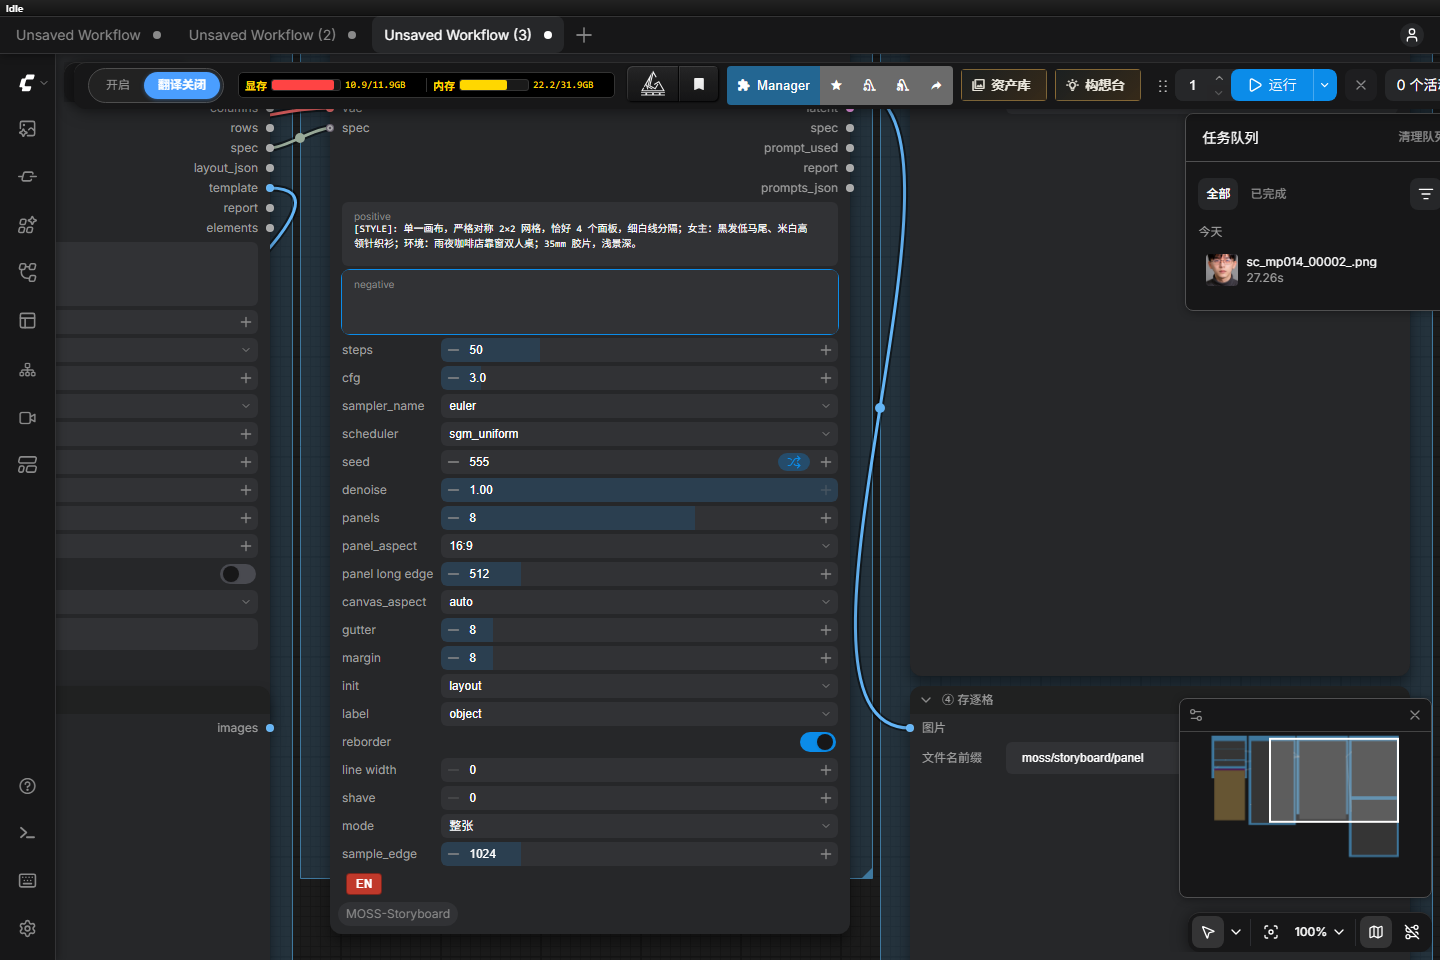
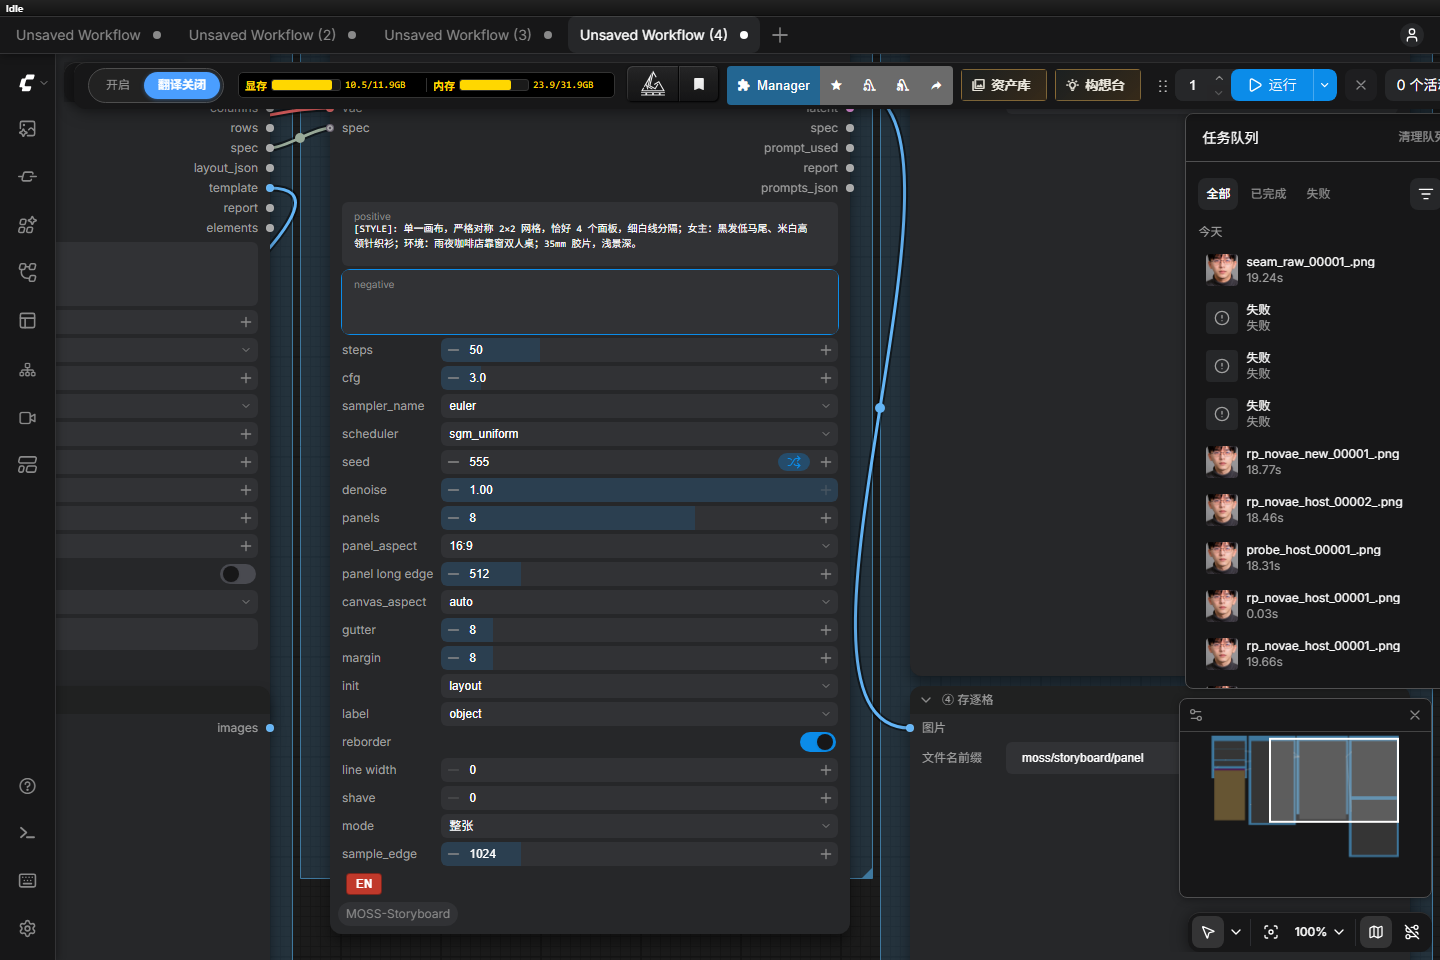
fix(i18n): 语言条不再写进存档，旧稿不会每存一次就差一格
现象：打开工作流后「单个比例 / 画布比例 / 布局框边长 / 锁定方式 / mode」五个下拉变红底，
刷新也不消失。

根因（前端 1.57.4 真机实测，Chromium + 宿主 8188，Nodes 2.0 开启）：
- 语言条用 `addDOMWidget(..., {serialize:false})` 挂，但这版 litegraph 的 `serialize()`
  **不认**这个标记，照样把它写进 `widgets_values`（基线 22 → 加 button 23 →
  再加 DOM 组件 24，一个都没跳过）。
- 而语言条是 `configure` **之后**才挂上的 ⇒ 存档 23 项 / 载入时 22 个 widget。
- 宿主按位置赋值，于是每保存一次就整体错一位：`panels` 拿到 `"16:9"`、
  `panel_aspect` 拿到 `512`、`init` 拿到 `"object"`。ComfyUI 自己不报错。

修法：在节点的 `serialize` 上剔除语言条那一格（只在「存档长度 == widget 总数」时动手，
那时才是一一对应）。此后 打开 → 保存 → 再打开 → 刷新 四步零红框，兼容层一次都不触发。

试过但撤掉的：把语言条提前到 `configure` 之前挂，让 widget 数与存档天然相等。
实测在 Nodes 2.0 下会让赋值链路整体偏一格（`widget[9]` 拿到 `values[10]`），比原问题更糟。

另：兼容层判据改为按内容对齐（长度相等但内容左移也认），并允许候选短于 widget 数；
原有边界照旧（只坏一个值 / 差超过 3 格 / 怎么对齐都合法不了，一律不猜）。

验证（真机，全部实跑）：
- `examples/` 四份示例：零红框，兼容层零触发；
- 人为错位稿（中间删 3 格 + 尾部补 3 个空串）：加载后归位，刷新后不再搬动；
- 保存再打开：存档 22 项（= 23 widget − 语言条），无红框、不必修；
- 宿主目录里那份错位的 `moss-layout-editor-storyboard.json` 已按界面真实值修好，
  原文件备份为 `.bak-shifted-20261028`。

闸：test_compat 33/0、check_editor_ui 148/0（新增 W28）、check_release_ready 42/0、
test_i18n 54/0、ui_widget_compat 14/0（新增「存出去再打开」）、ui_smoke 31/0。

diff --git a/web/moss_sb_i18n_ui.js b/web/moss_sb_i18n_ui.js
@@ -26,6 +26,7 @@ import {
 const TAG = "[MOSS SB] i18n";
 const BTN_CLASS = "mosssb-i18n-btn";
 const STYLE_ID = "mosssb-i18n-btn-style";
+const BAR_NAME = "mosssb_i18n_bar";
 
 let _lang = null;
 let booted = false;
@@ -140,6 +141,36 @@ function makeBtn() {
     return btn;
 }
 
+/**
+ * 把语言条那一格从存档里去掉。
+ *
+ * 为什么必须自己剔：`addDOMWidget(..., { serialize: false })` 只是**告诉宿主**别存，
+ * 实测（前端 1.57.4）这版 litegraph 的 `serialize()` 照样把它写进 `widgets_values`。
+ * 而载入时它是 `configure` **之后**才挂上的 —— 于是「存档 n 项 / 载入时 n-1 个 widget」，
+ * 每保存一次就差一格，下次打开整条值右移一位、`panels/panel_aspect/init` 一起变红。
+ * 在这里剔掉，存出去的长度与载入时天然一致，连"修"都不需要。
+ *
+ * 只在「存档长度 == widget 总数」时动（那时才是一一对应，splice 位置才可靠）。
+ */
+function dropBarFromSave(node) {
+    if (!node || node.__mosssbSave) return;
+    node.__mosssbSave = true;
+    const orig = node.serialize;
+    if (typeof orig !== "function") return;
+    node.serialize = function (...args) {
+        const out = orig.apply(this, args);
+        try {
+            const ws = out && out.widgets_values;
+            const all = this.widgets || [];
+            if (Array.isArray(ws) && ws.length === all.length) {
+                const i = all.findIndex((w) => w && w.name === BAR_NAME);
+                if (i >= 0) ws.splice(i, 1);
+            }
+        } catch (e) { /* 存出去多一格也比崩了强 */ }
+        return out;
+    };
+}
+
 function mountBtn(node) {
     // 🔴 只给本包节点加按钮。官方节点、别人的节点一律不加（挂了就是往人家界面上塞东西）。
     if (!node || node.__mosssbBar) return false;
@@ -152,12 +183,13 @@ function mountBtn(node) {
             bar.addEventListener(ev, (e) => e.stopPropagation());   // 别让点按钮变成拖节点
         }
         // `serialize:false` = 绝不进工作流 JSON（分享出去不污染别人的图）
-        node.addDOMWidget("mosssb_i18n_bar", "custom", bar, {
+        node.addDOMWidget(BAR_NAME, "custom", bar, {
             serialize: false,
             hideOnZoom: false,
             getMinHeight: () => 28,
         });
         node.__mosssbBar = bar;
+        dropBarFromSave(node);
         return true;
     } catch (e) {
         // 跨前端版本可能没有 addDOMWidget ⇒ 不掀画布，降级为"没有按钮但翻译照常"

diff --git a/tools/check_editor_ui.py b/tools/check_editor_ui.py
@@ -614,6 +614,15 @@ def check_wiring(contract, src):
           all("./ui_kit.mjs" in t for t in ui_text.values())
           and not any("function findPwCore" in t for t in ui_text.values()))
 
+    # 实测（前端 1.57.4）：`addDOMWidget(..., {serialize:false})` 只是"告诉宿主"，这版
+    # litegraph 的 serialize() 照样把它写进 widgets_values；而语言条是 configure **之后**才挂的，
+    # 于是"存档 n 项 / 载入时 n-1 个 widget"，每保存一次就差一格、下次打开整条右移变红。
+    # 所以必须在 serialize 上自己剔掉那一格。
+    i18n_ui = open(os.path.join(ROOT, "web", "moss_sb_i18n_ui.js"), encoding="utf-8").read()
+    check("W28 语言条不进存档（自己剔，不指望 serialize:false）",
+          "function dropBarFromSave" in i18n_ui and "ws.splice(i, 1)" in i18n_ui
+          and "dropBarFromSave(node)" in i18n_ui)
+
 
 def main():
     src = open(EDITOR, encoding="utf-8").read()

diff --git a/CHANGES.md b/CHANGES.md
@@ -16,8 +16,13 @@
 - **不动手的情形**：只坏一个值（更像用户手改）、差超过 3 格、怎么对齐都合法不了。
   修完写 `console.warn` 与 `node.properties.msb_widgets_repaired`，并提示重新保存。
 - 钩子只挂在 `beforeRegisterNodeDef` 里本包节点上，外来节点不碰。**不必重建旧稿**。
+- **根子上的那一格也补掉了**：i18n 语言条是 `addDOMWidget(..., {serialize:false})`，
+  但这版 litegraph（前端 1.57.4）**不认**这个标记，`serialize()` 照样把它写进 `widgets_values`；
+  而它是 `configure` **之后**才挂上的 ⇒「存档 n 项 / 载入时 n-1 个 widget」，
+  **每保存一次就差一格，下次打开整条值右移**。现在在 `serialize` 上自己剔掉那一格，
+  存出去的长度与载入时天然一致 —— 打开→保存→再打开→刷新，四步都不再需要"修"。
 - 纯函数层 `web/moss_sb_widget_order.js` 由 `tests/test_compat.mjs` 直接跑（33 项）；
-  `check_editor_ui.py` 新增 W22–W27，141 → 147 项。
+  `check_editor_ui.py` 新增 W22–W28，141 → 148 项。
 
 ### 前端真机测试：公共底座 `tools/ui_kit.mjs`
 - 原先 `ui_smoke.mjs` / `ui_wheel_check.mjs` 各抄一份「找 playwright-core / 找 chromium /
@@ -25,9 +30,9 @@
 - 三条纪律写进底座：缺依赖 **exit 2**（跳过 ≠ 通过）；等 `app.graph` **和** `app.canvas`
   都就绪再载工作流（早载会被随后的自动恢复覆盖成空图）；断言读 **`widget.value`**（界面值），
   不是 `widgets_values`（存档数组）——只读存档会得到假绿。
-- 新增 `tools/ui_widget_compat.mjs`（11 项）：对齐稿不许被改 / 人为错位稿加载后归位 /
-  **刷新后**仍不红 / `widget 数 == serialize 长度`。刷新那条是用户报的路径，只测
-  `loadGraphData` 会漏。
+- 新增 `tools/ui_widget_compat.mjs`（14 项）：对齐稿不许被改 / 人为错位稿加载后归位 /
+  **刷新后**仍不红 / 存档长度 = widget 数 − 语言条 / **存出去再打开**仍不红且不必修。
+  刷新与"存完再开"是用户真实走的两条路径，只测 `loadGraphData` 会漏。
 
 ### 稿子与布局对账：不一致就停在采样前（只拦不改写）
 - 布局模式下（`init=layout`/`auto` + 整张），`[PANEL n]` 段数与全局段的显式格数

diff --git a/CONTRIBUTING.md b/CONTRIBUTING.md
@@ -23,10 +23,10 @@ python tools/smoke_nodes.py               # 58 项：自加载 + 纯节点真跑
 python tools/host_loader_check.py         # 19 项：走宿主 load_custom_node
 python tools/check_ui_workflow.py examples/*.json tests/fixtures/moss-storyboard-*.json   # 6 份共 88 项：连线 + 槽位（不带文件参数只查内建那一份 = 15 项）
 python tools/check_frontend.py            # 9 项：前端词表/语法/接线/标题可换语言
-python tools/check_editor_ui.py           # 147 项：编辑器接线 / 语法 / 词表 / 互操作 / 层级对齐 / 最终提示词 / 占位守卫 / 滚轮跨平台守卫 / 旧稿错位守卫 / 界面文案中英齐全
+python tools/check_editor_ui.py           # 148 项：编辑器接线 / 语法 / 词表 / 互操作 / 层级对齐 / 最终提示词 / 占位守卫 / 滚轮跨平台守卫 / 旧稿错位守卫 / 界面文案中英齐全
 python tools/check_release_ready.py       # 42 项：**发布前**开源卫生（凭据/路径/打包/元数据/发布说明/提交信息/临时产物/提交格式/SPDX）
 node   tools/ui_smoke.mjs                 # 31 项：**无头浏览器真机**（扩展是否执行 / 只动本包节点 / 编辑器语义分层 / 预览可见 / 占位确认）
-node   tools/ui_widget_compat.mjs         # 11 项：**真机**旧稿错位修复（对齐稿不动 / 错位稿归位 / **刷新后**仍不红）
+node   tools/ui_widget_compat.mjs         # 14 项：**真机**旧稿错位修复（对齐稿不动 / 错位稿归位 / **刷新后**仍不红 / 存出去再打开）
 node   tools/ui_wheel_check.mjs           # 每引擎 20 项：滚轮归属（节点内只滚编辑器、画布纹丝不动、不接管原生滚动），Chromium/Firefox/WebKit 各跑一遍
 ```
 
